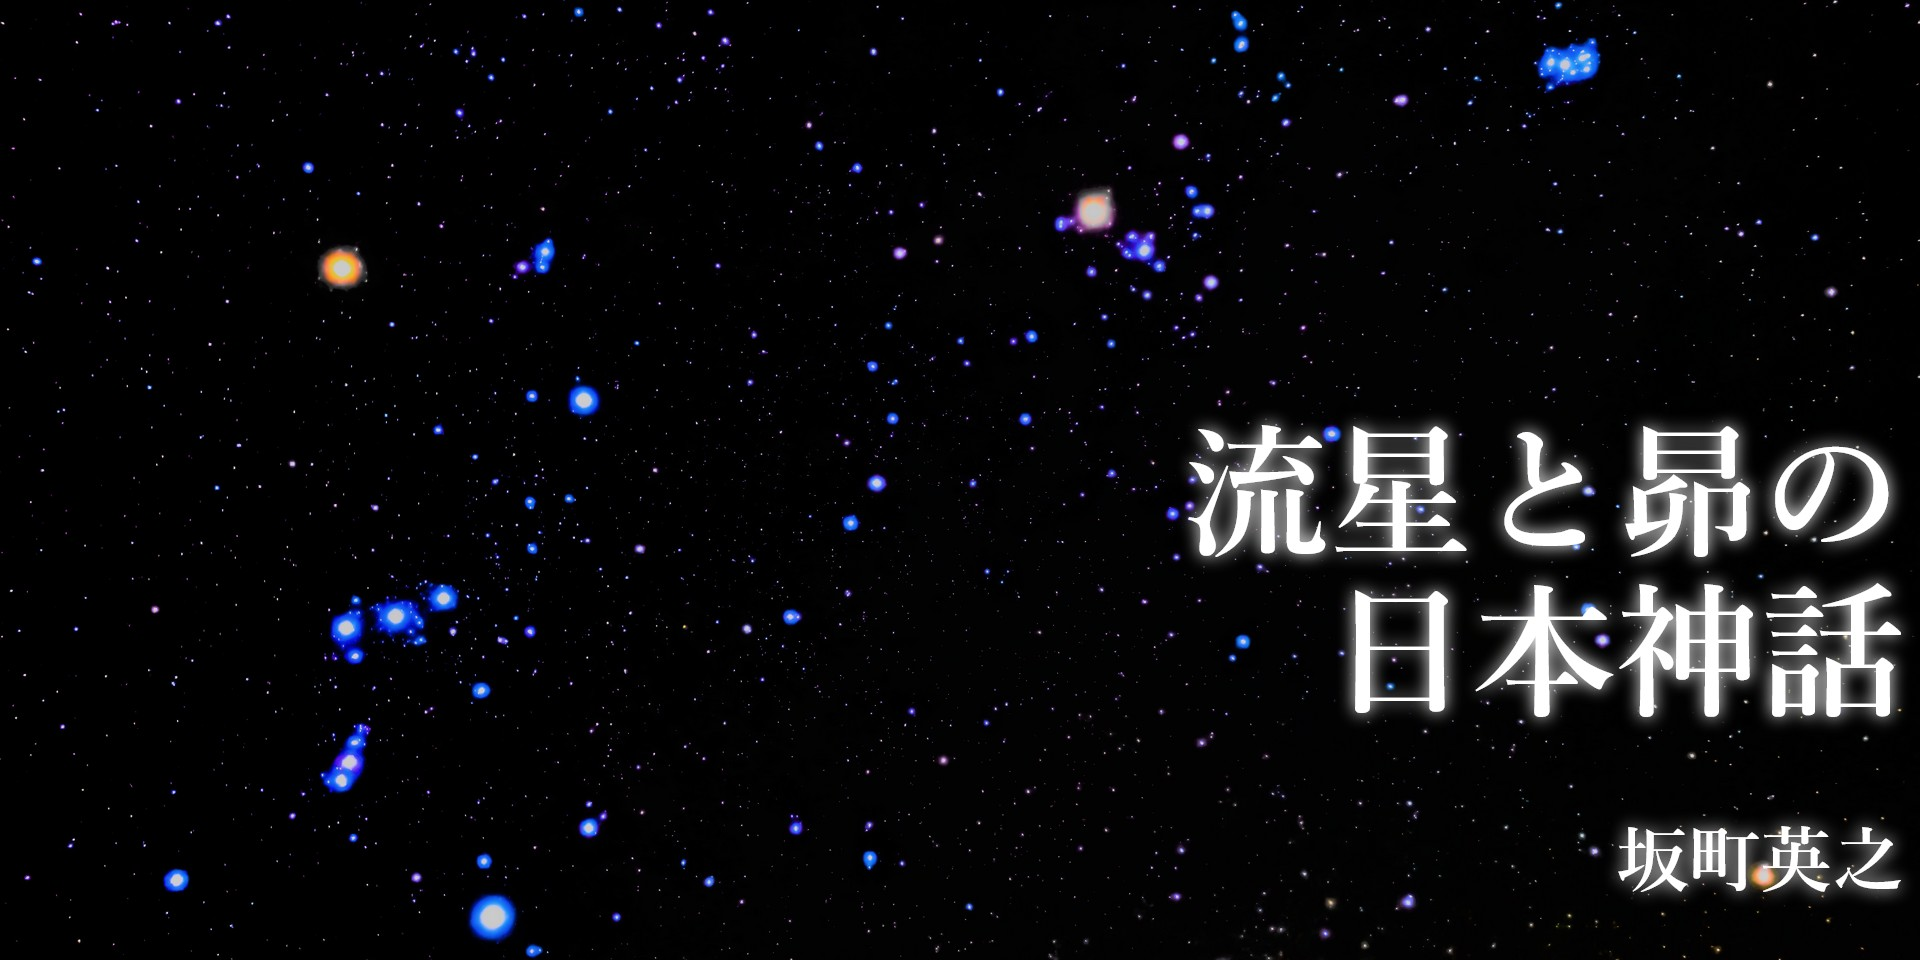
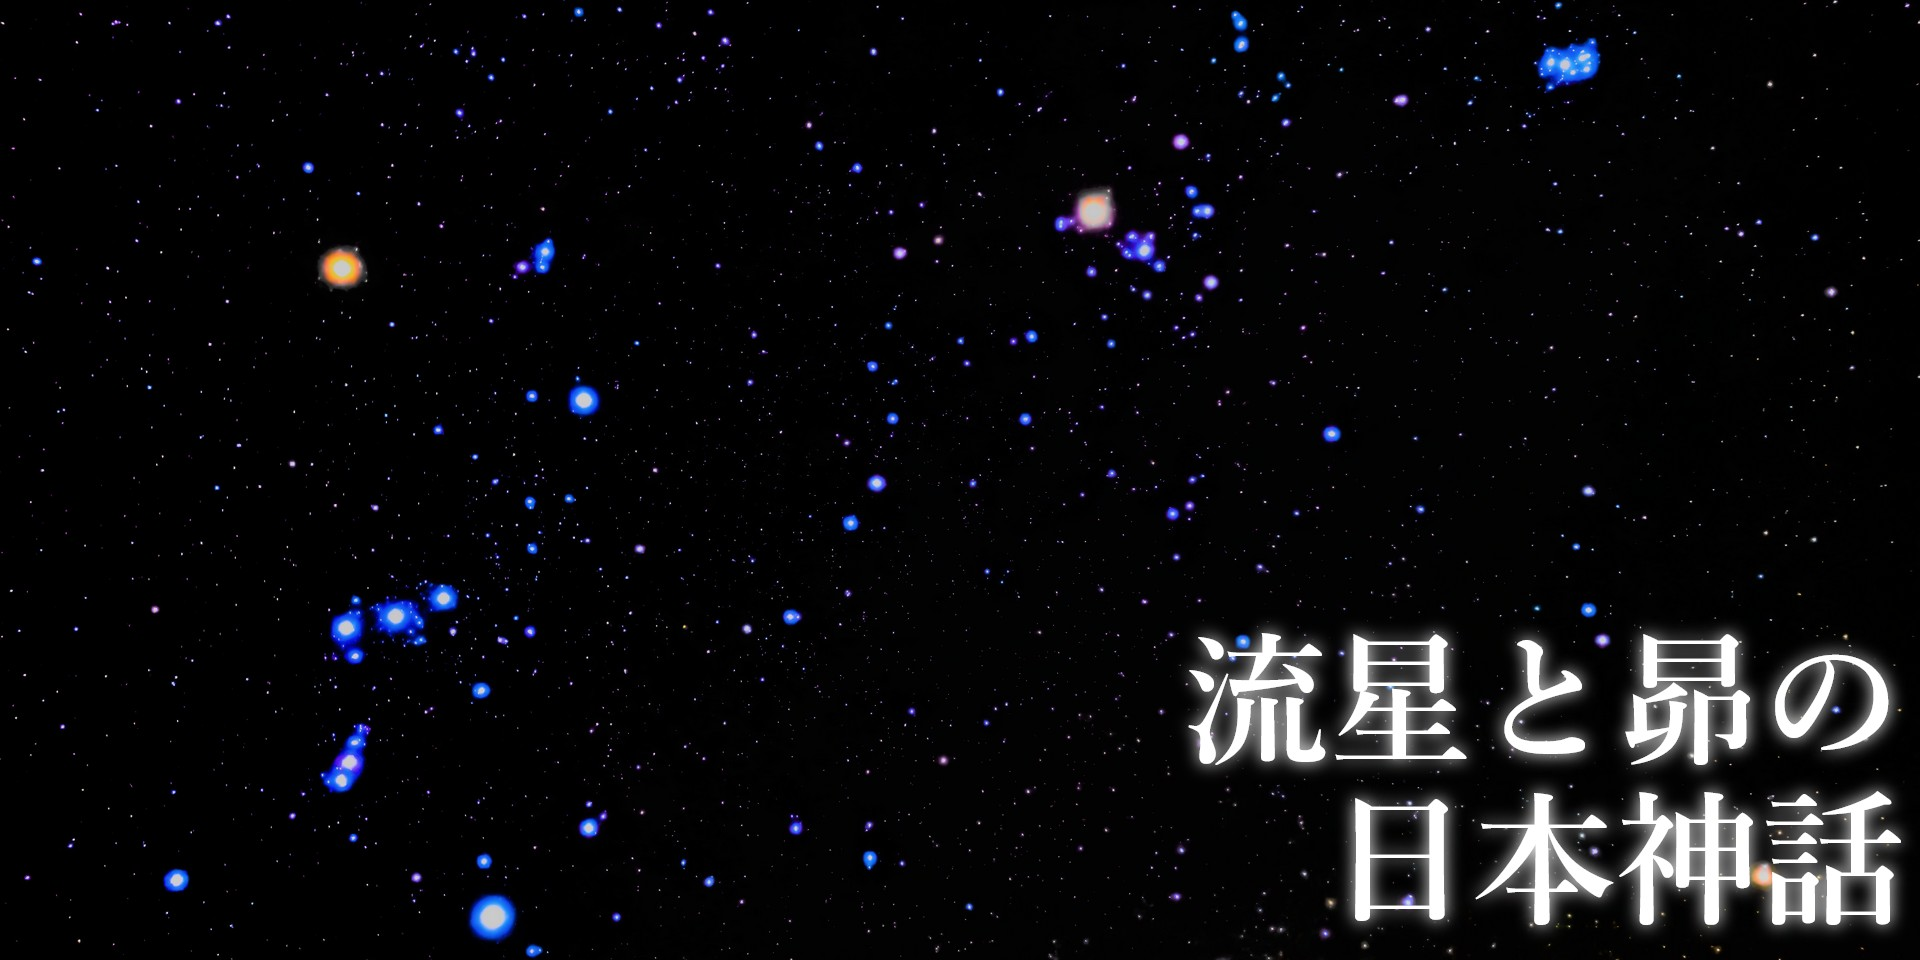
Web版表紙画像から著者名を削除

Changed region(s): [[0.5938, 0.4375, 1.0, 0.9688]]

diff --git a/images/cover/cover-web.html b/images/cover/cover-web.html
@@ -22,7 +22,7 @@ main {
   color: #fff;
   font-family: serif;
   font-weight: bold;
-  padding-top: 26rem;
+  padding-top: 39rem;
   padding-right: 1rem;
   text-align: right;
   text-shadow: 0 0 1rem #fff;
@@ -31,10 +31,6 @@ main {
   font-size: 9rem;
   line-height: 10rem;
 }
-.author {
-  font-size: 4.5rem;
-  padding-top: 5rem;
-}
 </style>
 </head>
 <body>
@@ -42,7 +38,6 @@ main {
     <div class="text">
       <div class="title">流星と昴の</div>
       <div class="title">日本神話</div>
-      <div class="author">坂町英之</div>
     </div>
   </main>
 </body>
